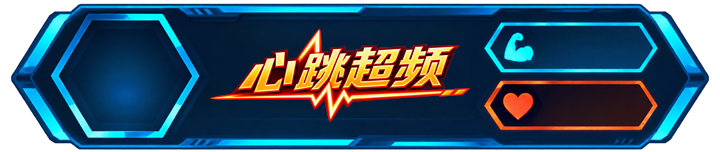
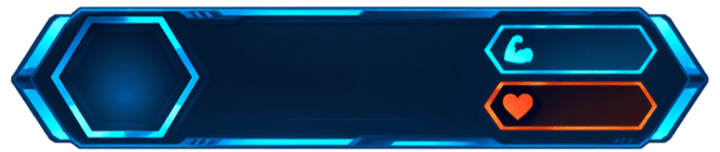
feat(ui): 优化心跳超频反馈

diff --git a/assets/scripts/ui/SharkEventBanner.ts b/assets/scripts/ui/SharkEventBanner.ts
@@ -65,6 +65,12 @@ const STIMULANT_STAT_TEXT_WIDTH = 104;
 const STIMULANT_STAT_TEXT_HEIGHT = 34;
 const STIMULANT_ENERGY_TEXT_Y = 27;
 const STIMULANT_HEART_TEXT_Y = -26;
+const STIMULANT_TITLE_WIDTH = 245;
+const STIMULANT_TITLE_HEIGHT = 89;
+const STIMULANT_TITLE_X = -8;
+const STIMULANT_TITLE_Y = -3;
+const STIMULANT_COUNTER_STEPS = 5;
+const STIMULANT_COUNTER_STEP_SECONDS = 0.1;
 const SCREEN_MARGIN = 18;
 const PICTURE_IN_PICTURE_GAP = 16;
 const WHITE = new Color(248, 252, 255, 255);
@@ -112,9 +118,16 @@ export class EntertainmentEventBanner {
     private personalLabel: Label | null = null;
     private stimulantRoot: Node | null = null;
     private stimulantCardSprite: Sprite | null = null;
+    private stimulantTitleRoot: Node | null = null;
+    private stimulantTitleSprite: Sprite | null = null;
+    private stimulantTitleEchoRoot: Node | null = null;
+    private stimulantTitleEchoSprite: Sprite | null = null;
+    private stimulantTitleEchoOpacity: UIOpacity | null = null;
+    private stimulantIconRoot: Node | null = null;
     private stimulantIconSprite: Sprite | null = null;
     private stimulantEnergyLabel: Label | null = null;
     private stimulantHeartLabel: Label | null = null;
+    private stimulantCounterTimeline: Node | null = null;
     private personalUntil = 0;
 
     private pictureInPictureLeft: number | null = null;
@@ -202,19 +215,25 @@ export class EntertainmentEventBanner {
         this.showPersonalRoot(durationMs);
     }
 
-    /** 心跳苏打使用专属结构化卡片，不再把三项信息挤成一行普通文字。 */
-    showStimulantPickup(energyRestored: number, heartRate: number, durationMs = 1400): void {
+    /** 心跳苏打使用真实拾取前后值做短促跳数，不伪造比赛状态。 */
+    showStimulantPickup(
+        energyRatioBefore: number,
+        energyRatioAfter: number,
+        heartRateBefore: number,
+        heartRateAfter: number,
+        infiniteStamina: boolean,
+        durationMs = 1700,
+    ): void {
         if (!this.personalRoot?.isValid || !this.stimulantEnergyLabel || !this.stimulantHeartLabel) return;
         this.setPersonalMode(true);
-        const energy = Math.max(0, Math.round(energyRestored));
-        const heart = Math.max(0, Math.round(heartRate));
-        this.setLabel(
-            this.stimulantEnergyLabel,
-            energy > 0 ? `体力 +${energy}` : '体力已满',
-            ENERGY_CYAN,
-        );
-        this.setLabel(this.stimulantHeartLabel, `心率 ${heart}`, HEART_ORANGE);
+        const energyFrom = Math.round(Math.max(0, Math.min(1, energyRatioBefore)) * 100);
+        const energyTo = Math.round(Math.max(0, Math.min(1, energyRatioAfter)) * 100);
+        const heartFrom = Math.max(0, Math.round(heartRateBefore));
+        const heartTo = Math.max(0, Math.round(heartRateAfter));
+        this.setLabel(this.stimulantEnergyLabel, this.stimulantEnergyText(energyFrom, infiniteStamina), ENERGY_CYAN);
+        this.setLabel(this.stimulantHeartLabel, `心率 ${heartFrom}`, HEART_ORANGE);
         this.showPersonalRoot(durationMs, true);
+        this.playStimulantPickupMotion(energyFrom, energyTo, heartFrom, heartTo, infiniteStamina);
     }
 
     update(): void {
@@ -346,6 +365,24 @@ export class EntertainmentEventBanner {
         iconSprite.sizeMode = Sprite.SizeMode.CUSTOM;
         iconSprite.trim = false;
 
+        const titleEchoNode = makeUiNode('StimulantTitleEcho', stimulantRoot);
+        titleEchoNode.getComponent(UITransform)!.setContentSize(STIMULANT_TITLE_WIDTH, STIMULANT_TITLE_HEIGHT);
+        titleEchoNode.setPosition(STIMULANT_TITLE_X, STIMULANT_TITLE_Y, 1);
+        const titleEchoSprite = titleEchoNode.addComponent(Sprite);
+        titleEchoSprite.sizeMode = Sprite.SizeMode.CUSTOM;
+        titleEchoSprite.trim = false;
+        titleEchoSprite.color = new Color(255, 132, 76, 255);
+        const titleEchoOpacity = titleEchoNode.addComponent(UIOpacity);
+        titleEchoOpacity.opacity = 0;
+        titleEchoNode.active = false;
+
+        const titleNode = makeUiNode('StimulantTitle', stimulantRoot);
+        titleNode.getComponent(UITransform)!.setContentSize(STIMULANT_TITLE_WIDTH, STIMULANT_TITLE_HEIGHT);
+        titleNode.setPosition(STIMULANT_TITLE_X, STIMULANT_TITLE_Y, 2);
+        const titleSprite = titleNode.addComponent(Sprite);
+        titleSprite.sizeMode = Sprite.SizeMode.CUSTOM;
+        titleSprite.trim = false;
+
         const energyNode = makeLabel('Energy', stimulantRoot, '', 22, ENERGY_CYAN);
         energyNode.getComponent(UITransform)!.setContentSize(STIMULANT_STAT_TEXT_WIDTH, STIMULANT_STAT_TEXT_HEIGHT);
         energyNode.setPosition(STIMULANT_STAT_TEXT_X, STIMULANT_ENERGY_TEXT_Y, 1);
@@ -362,6 +399,9 @@ export class EntertainmentEventBanner {
         heartLabel.overflow = Label.Overflow.SHRINK;
         styleProjectUiLabel(heartLabel, 'semibold', 30);
 
+        const counterTimeline = makeUiNode('StimulantCounterTimeline', stimulantRoot);
+        counterTimeline.getComponent(UITransform)!.setContentSize(1, 1);
+
         stimulantRoot.active = false;
         root.active = false;
         this.personalRoot = root;
@@ -371,9 +411,16 @@ export class EntertainmentEventBanner {
         this.personalLabel = personalLabel;
         this.stimulantRoot = stimulantRoot;
         this.stimulantCardSprite = cardSprite;
+        this.stimulantTitleRoot = titleNode;
+        this.stimulantTitleSprite = titleSprite;
+        this.stimulantTitleEchoRoot = titleEchoNode;
+        this.stimulantTitleEchoSprite = titleEchoSprite;
+        this.stimulantTitleEchoOpacity = titleEchoOpacity;
+        this.stimulantIconRoot = iconNode;
         this.stimulantIconSprite = iconSprite;
         this.stimulantEnergyLabel = energyLabel;
         this.stimulantHeartLabel = heartLabel;
+        this.stimulantCounterTimeline = counterTimeline;
     }
 
     private loadArtwork(): void {
@@ -383,6 +430,7 @@ export class EntertainmentEventBanner {
         this.loadFrame('event-danger', paths.events.danger, 190, 180, 22);
         this.loadFrame('event-success', paths.events.success, 190, 180, 22);
         this.loadFrame('stimulant-card', paths.stimulantCard);
+        this.loadFrame('stimulant-title', paths.stimulantTitle);
         this.loadFrame('icon-stimulant', paths.icons.stimulant);
         this.loadFrame('icon-timed-bomb', paths.icons.timedBomb);
         this.loadFrame('icon-whirlpool', paths.icons.whirlpool);
@@ -416,6 +464,10 @@ export class EntertainmentEventBanner {
         }
         if (key === 'stimulant-card' && this.stimulantCardSprite?.spriteFrame !== frame) {
             this.stimulantCardSprite!.spriteFrame = frame;
+        }
+        if (key === 'stimulant-title') {
+            this.setSpriteFrame(this.stimulantTitleSprite, frame);
+            this.setSpriteFrame(this.stimulantTitleEchoSprite, frame);
         }
         if (key === 'icon-stimulant' && this.stimulantIconSprite?.spriteFrame !== frame) {
             this.stimulantIconSprite!.spriteFrame = frame;
@@ -464,17 +516,133 @@ export class EntertainmentEventBanner {
         const motion = this.personalMotionRoot;
         const opacity = this.personalOpacity;
         if (!root?.isValid || !motion?.isValid || !opacity) return;
+        const wasActive = root.active;
         this.stopPersonalTweens();
         if (!root.active) root.active = true;
-        opacity.opacity = 0;
+        opacity.opacity = wasActive ? 255 : 0;
         motion.setPosition(0, -8, 0);
         motion.setScale(punch ? 0.88 : 0.96, punch ? 0.88 : 0.96, 1);
-        tween(opacity).to(0.12, { opacity: 255 }, { easing: 'quadOut' }).start();
+        const opacityTween = tween(opacity);
+        if (!wasActive) opacityTween.to(0.12, { opacity: 255 }, { easing: 'quadOut' });
+        if (punch) {
+            const fadeDelay = Math.max(0, durationMs / 1000 - (wasActive ? 0 : 0.12) - 0.15);
+            opacityTween.delay(fadeDelay).to(0.15, { opacity: 0 }, { easing: 'quadIn' });
+        }
+        if (!wasActive || punch) opacityTween.start();
         tween(motion)
             .to(0.18, { position: new Vec3(0, 2, 0), scale: new Vec3(punch ? 1.04 : 1, punch ? 1.04 : 1, 1) }, { easing: 'backOut' })
             .to(0.08, { position: new Vec3(0, 0, 0), scale: new Vec3(1, 1, 1) }, { easing: 'quadInOut' })
             .start();
         this.personalUntil = Date.now() + Math.max(0, durationMs);
+    }
+
+    private playStimulantPickupMotion(
+        energyFrom: number,
+        energyTo: number,
+        heartFrom: number,
+        heartTo: number,
+        infiniteStamina: boolean,
+    ): void {
+        const title = this.stimulantTitleRoot;
+        const echo = this.stimulantTitleEchoRoot;
+        const echoOpacity = this.stimulantTitleEchoOpacity;
+        const icon = this.stimulantIconRoot;
+        const timeline = this.stimulantCounterTimeline;
+        if (!title?.isValid || !echo?.isValid || !echoOpacity || !icon?.isValid || !timeline?.isValid) return;
+
+        title.setPosition(STIMULANT_TITLE_X - 7, STIMULANT_TITLE_Y, 2);
+        title.setScale(0.94, 0.94, 1);
+        title.angle = -2.4;
+        tween(title)
+            .to(0.055, {
+                position: new Vec3(STIMULANT_TITLE_X + 6, STIMULANT_TITLE_Y, 2),
+                scale: new Vec3(1.08, 1.08, 1),
+                angle: 2.2,
+            }, { easing: 'cubicOut' })
+            .to(0.05, {
+                position: new Vec3(STIMULANT_TITLE_X - 5, STIMULANT_TITLE_Y, 2),
+                scale: new Vec3(1.02, 1.02, 1),
+                angle: -1.8,
+            }, { easing: 'quadInOut' })
+            .to(0.045, {
+                position: new Vec3(STIMULANT_TITLE_X + 3, STIMULANT_TITLE_Y, 2),
+                scale: new Vec3(1.05, 1.05, 1),
+                angle: 1.2,
+            }, { easing: 'quadInOut' })
+            .to(0.04, {
+                position: new Vec3(STIMULANT_TITLE_X - 1, STIMULANT_TITLE_Y, 2),
+                scale: new Vec3(0.99, 0.99, 1),
+                angle: -0.6,
+            }, { easing: 'quadInOut' })
+            .to(0.05, {
+                position: new Vec3(STIMULANT_TITLE_X, STIMULANT_TITLE_Y, 2),
+                scale: new Vec3(1, 1, 1),
+                angle: 0,
+            }, { easing: 'quadOut' })
+            .delay(0.18)
+            .to(0.07, { scale: new Vec3(1.055, 1.055, 1), angle: 0.7 }, { easing: 'quadOut' })
+            .to(0.08, { scale: new Vec3(0.99, 0.99, 1), angle: -0.35 }, { easing: 'quadInOut' })
+            .to(0.07, { scale: new Vec3(1.045, 1.045, 1), angle: 0.35 }, { easing: 'quadOut' })
+            .to(0.1, { scale: new Vec3(1, 1, 1), angle: 0 }, { easing: 'quadInOut' })
+            .start();
+
+        echo.active = true;
+        echo.setPosition(STIMULANT_TITLE_X - 5, STIMULANT_TITLE_Y, 1);
+        echo.setScale(0.96, 0.96, 1);
+        echo.angle = -1.6;
+        echoOpacity.opacity = 0;
+        tween(echoOpacity)
+            .to(0.055, { opacity: 92 }, { easing: 'quadOut' })
+            .to(0.18, { opacity: 0 }, { easing: 'quadIn' })
+            .call(() => { if (echo.isValid) echo.active = false; })
+            .start();
+        tween(echo)
+            .to(0.23, {
+                position: new Vec3(STIMULANT_TITLE_X + 5, STIMULANT_TITLE_Y, 1),
+                scale: new Vec3(1.035, 1.035, 1),
+                angle: 1.2,
+            }, { easing: 'quadOut' })
+            .start();
+
+        icon.setScale(0.8, 0.8, 1);
+        icon.angle = -8;
+        tween(icon)
+            .to(0.14, { scale: new Vec3(1.12, 1.12, 1), angle: 5 }, { easing: 'backOut' })
+            .to(0.08, { scale: new Vec3(0.98, 0.98, 1), angle: -2 }, { easing: 'quadInOut' })
+            .to(0.1, { scale: new Vec3(1, 1, 1), angle: 0 }, { easing: 'quadOut' })
+            .delay(0.12)
+            .to(0.06, { scale: new Vec3(1.08, 1.08, 1) }, { easing: 'quadOut' })
+            .to(0.09, { scale: new Vec3(1, 1, 1) }, { easing: 'quadInOut' })
+            .to(0.07, { scale: new Vec3(1.06, 1.06, 1) }, { easing: 'quadOut' })
+            .to(0.1, { scale: new Vec3(1, 1, 1) }, { easing: 'quadInOut' })
+            .start();
+
+        let counterTween = tween(timeline);
+        for (let step = 1; step <= STIMULANT_COUNTER_STEPS; step++) {
+            const progress = step / STIMULANT_COUNTER_STEPS;
+            counterTween = counterTween
+                .delay(STIMULANT_COUNTER_STEP_SECONDS)
+                .call(() => {
+                    const eased = 1 - (1 - progress) * (1 - progress);
+                    const energy = Math.round(energyFrom + (energyTo - energyFrom) * eased);
+                    const heart = Math.round(heartFrom + (heartTo - heartFrom) * eased);
+                    if (this.stimulantEnergyLabel) {
+                        this.setLabel(
+                            this.stimulantEnergyLabel,
+                            this.stimulantEnergyText(energy, infiniteStamina),
+                            ENERGY_CYAN,
+                        );
+                    }
+                    if (this.stimulantHeartLabel) {
+                        this.setLabel(this.stimulantHeartLabel, `心率 ${heart}`, HEART_ORANGE);
+                    }
+                });
+        }
+        counterTween.start();
+    }
+
+    private stimulantEnergyText(value: number, infiniteStamina: boolean): string {
+        return infiniteStamina ? '体力 无限' : `体力 ${value}%`;
     }
 
     private setPersonalMode(stimulant: boolean): void {
@@ -499,6 +667,31 @@ export class EntertainmentEventBanner {
     private stopPersonalTweens(): void {
         if (this.personalOpacity) Tween.stopAllByTarget(this.personalOpacity);
         if (this.personalMotionRoot) Tween.stopAllByTarget(this.personalMotionRoot);
+        if (this.stimulantTitleRoot) Tween.stopAllByTarget(this.stimulantTitleRoot);
+        if (this.stimulantTitleEchoRoot) Tween.stopAllByTarget(this.stimulantTitleEchoRoot);
+        if (this.stimulantTitleEchoOpacity) Tween.stopAllByTarget(this.stimulantTitleEchoOpacity);
+        if (this.stimulantIconRoot) Tween.stopAllByTarget(this.stimulantIconRoot);
+        if (this.stimulantCounterTimeline) Tween.stopAllByTarget(this.stimulantCounterTimeline);
+        this.resetStimulantMotionNodes();
+    }
+
+    private resetStimulantMotionNodes(): void {
+        if (this.stimulantTitleRoot?.isValid) {
+            this.stimulantTitleRoot.setPosition(STIMULANT_TITLE_X, STIMULANT_TITLE_Y, 2);
+            this.stimulantTitleRoot.setScale(1, 1, 1);
+            this.stimulantTitleRoot.angle = 0;
+        }
+        if (this.stimulantTitleEchoRoot?.isValid) {
+            this.stimulantTitleEchoRoot.setPosition(STIMULANT_TITLE_X, STIMULANT_TITLE_Y, 1);
+            this.stimulantTitleEchoRoot.setScale(1, 1, 1);
+            this.stimulantTitleEchoRoot.angle = 0;
+            this.stimulantTitleEchoRoot.active = false;
+        }
+        if (this.stimulantTitleEchoOpacity?.isValid) this.stimulantTitleEchoOpacity.opacity = 0;
+        if (this.stimulantIconRoot?.isValid) {
+            this.stimulantIconRoot.setScale(1, 1, 1);
+            this.stimulantIconRoot.angle = 0;
+        }
     }
 
     private layout(): void {

diff --git a/assets/scripts/core/StimulantBrawlController.ts b/assets/scripts/core/StimulantBrawlController.ts
@@ -41,7 +41,11 @@ export type StimulantPickup = { itemId: number; collectorLane: number; revision:
 export type StimulantPickupFeedback = StimulantPickup & {
     wave: number;
     local: boolean;
+    energyRatioBefore: number;
+    energyRatioAfter: number;
+    infiniteStamina: boolean;
     energyRestored: number;
+    heartRateBefore: number;
     heartRate: number;
 };
 
@@ -313,6 +317,8 @@ export class StimulantBrawlController {
         }
         const racer = this.pickupRacers[pickup.collectorLane] ?? null;
         if (!racer) return true;
+        const energyRatioBefore = racer.condition.energyRatio;
+        const heartRateBefore = racer.swimmer.heartRate;
         const restored = racer.condition.restoreEnergyRatio(STIMULANT_BRAWL_TUNING.energyRestoreRatio);
         racer.swimmer.motor.addHeartRateBurden(
             STIMULANT_BRAWL_TUNING.heartRateBurden,
@@ -327,7 +333,11 @@ export class StimulantBrawlController {
             ...pickup,
             wave: item.wave,
             local: pickup.collectorLane === this.localPlayerLane(),
+            energyRatioBefore,
+            energyRatioAfter: racer.condition.energyRatio,
+            infiniteStamina: racer.swimmer.motor.ability.infiniteStamina,
             energyRestored: restored,
+            heartRateBefore,
             heartRate: racer.swimmer.heartRate,
         });
         return true;

diff --git a/assets/scripts/core/GameManager.ts b/assets/scripts/core/GameManager.ts
@@ -1776,9 +1776,12 @@ export class GameManager extends Component {
                 feedback => {
                     if (feedback.local) {
                         this._entertainmentEventBanner.showStimulantPickup(
-                            feedback.energyRestored,
+                            feedback.energyRatioBefore,
+                            feedback.energyRatioAfter,
+                            feedback.heartRateBefore,
                             feedback.heartRate,
-                            1400,
+                            feedback.infiniteStamina,
+                            1700,
                         );
                     }
                 },

diff --git a/assets/scripts/core/ResourcePaths.ts b/assets/scripts/core/ResourcePaths.ts
@@ -518,6 +518,7 @@ export const RESOURCE_PATHS = {
             success: 'ui/entertainment-banner-v1/event-banner-success/texture',
         },
         stimulantCard: 'ui/entertainment-banner-v1/stimulant-pickup-base/texture',
+        stimulantTitle: 'ui/entertainment-banner-v1/stimulant-pickup-title/texture',
         icons: {
             stimulant: 'ui/entertainment-banner-v1/icon-stimulant/texture',
             timedBomb: 'ui/entertainment-banner-v1/icon-timed-bomb/texture',

diff --git a/docs/心跳苏打大乱斗玩法说明.zh.md b/docs/心跳苏打大乱斗玩法说明.zh.md
@@ -15,7 +15,7 @@
 - 判定体积为半径 1.2 米、沿角色前进方向前后各延伸 0.8 米的二维胶囊，不再只检测角色根节点。
 - 每次权威更新还会检测角色上一位置到当前位置的短路径；超过 3 米的位置跳变视为网络校正，不沿整段路径补捡。
 - 二维胶囊命中前还必须通过赛程距离门槛；50 米泳池内物理位置重合的其他趟数道具不会被提前或回头误拾取。
-- 接近新波次时使用娱乐玩法共用的赛事广播提示刷新，并显示苏打专属事件图标；本地拾取使用下方独立的橙红“心跳超频”能量卡，将体力恢复量和当前心率分区显示。其他泳道拾取不逐次播报，避免多名选手同时争抢时刷屏。
+- 接近新波次时使用娱乐玩法共用的赛事广播提示刷新，并显示苏打专属事件图标；本地拾取使用下方独立的橙红“心跳超频”能量卡，将体力百分比和心率的真实拾取前后值分区显示。体力口径与比赛 HUD 一致，普通角色显示 0～100%，无限体力角色显示“无限”；其他泳道拾取不逐次播报，避免多名选手同时争抢时刷屏。
 
 ## 拾取收益与风险
 
@@ -49,6 +49,8 @@
 
 ## 表现与性能预算
 
+- “心跳超频”标题从底板中拆为独立透明贴图：入场使用约 0.24 秒的衰减左右震动、轻微旋转和缩放回弹，数值冲到终点时再补两次短促心跳；苏打瓶图标同步弹跳，底板和两个数值框保持原始几何，不单独缩放或位移。
+- 体力与心率读取拾取事件应用前后的真实状态，体力先换算为与比赛 HUD 相同的整数百分比，心率保留实际数值；在 0.5 秒内按 0.1 秒间隔更新五次，只在最终显示内容变化时写入 `Label.string`，不增加逐帧文字重建或常驻更新。
 - 所有心跳苏打共用一份光柱网格和一份透明无光照材质；苏打瓶继续使用模型原有材质。
 - 落水水花使用娱乐模式共享池的 `LIGHT_ENTRY` 档；全局轻落水池预建 4 槽，苏打控制器不再持有自己的水花节点、网格或材质。
 - 每个可见心跳苏打增加一次透明光柱绘制，不使用动态灯光、阴影或粒子系统。
